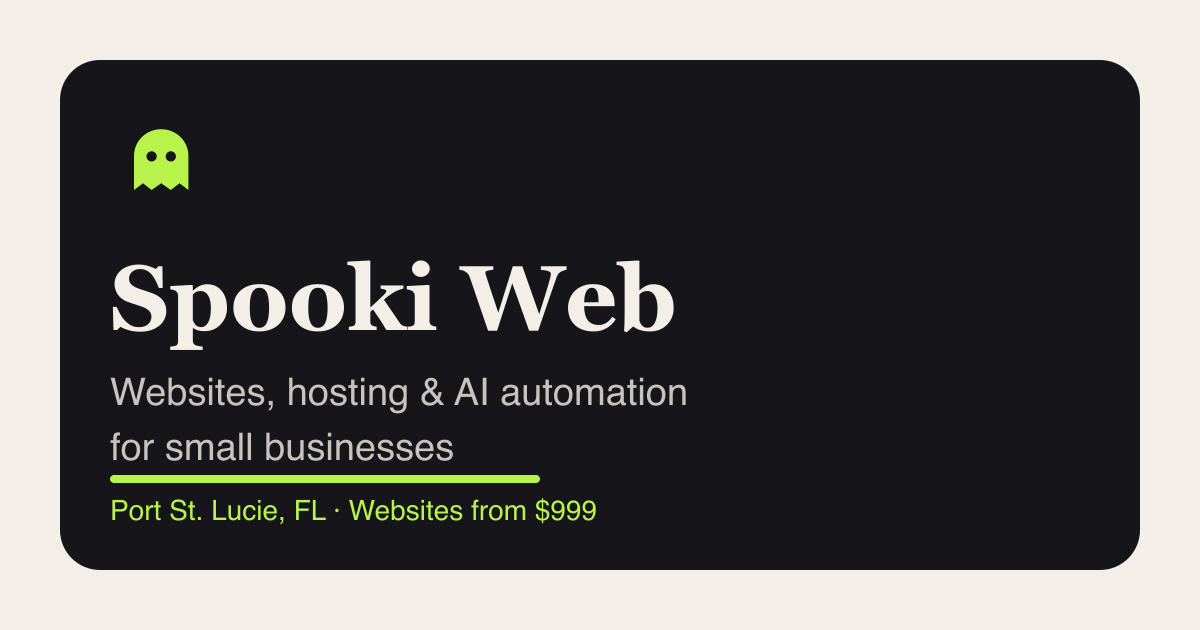
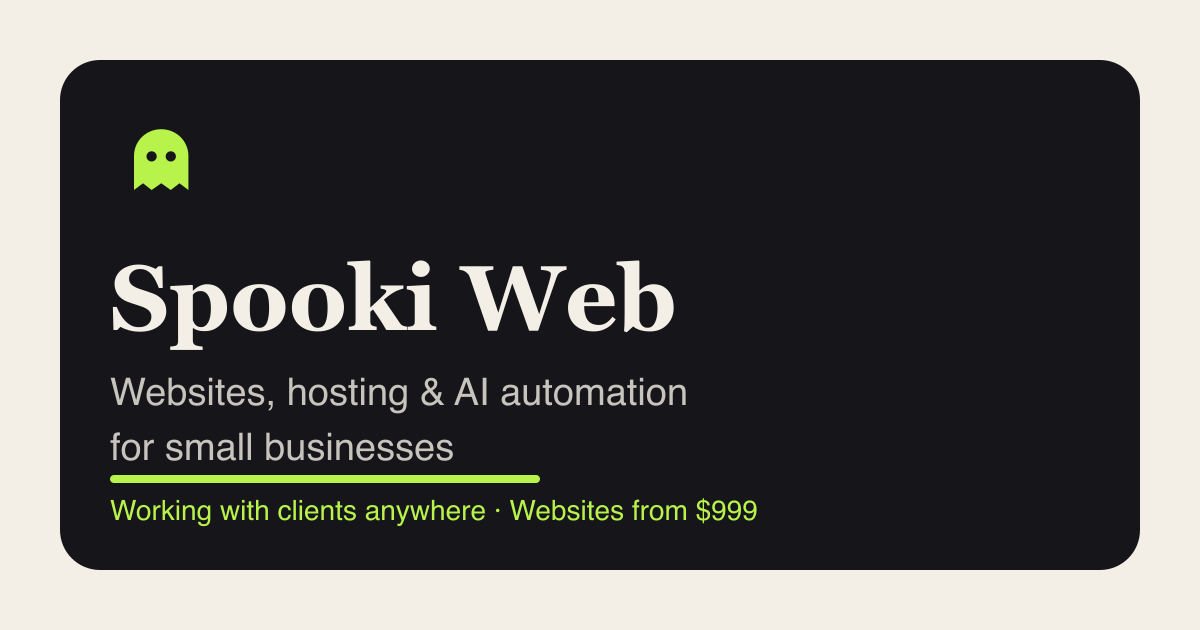
Remove location, work from anywhere; surface email and phone in header and hero

Changed region(s): [[0.0925, 0.7841, 0.6475, 0.8444]]

diff --git a/src/config.ts b/src/config.ts
@@ -4,8 +4,7 @@ export const business = {
   name: 'Spooki Web',
   owner: 'Justin Kissoon',
   tagline: 'Websites, hosting and AI automation for small businesses.',
-  location: 'Port St. Lucie, FL',
-  region: 'Florida',
+  location: 'Working remotely with clients anywhere',
   email: 'justinkissoon0@gmail.com',
   phone: '(772) 267-6678',
   paymentTerms:
